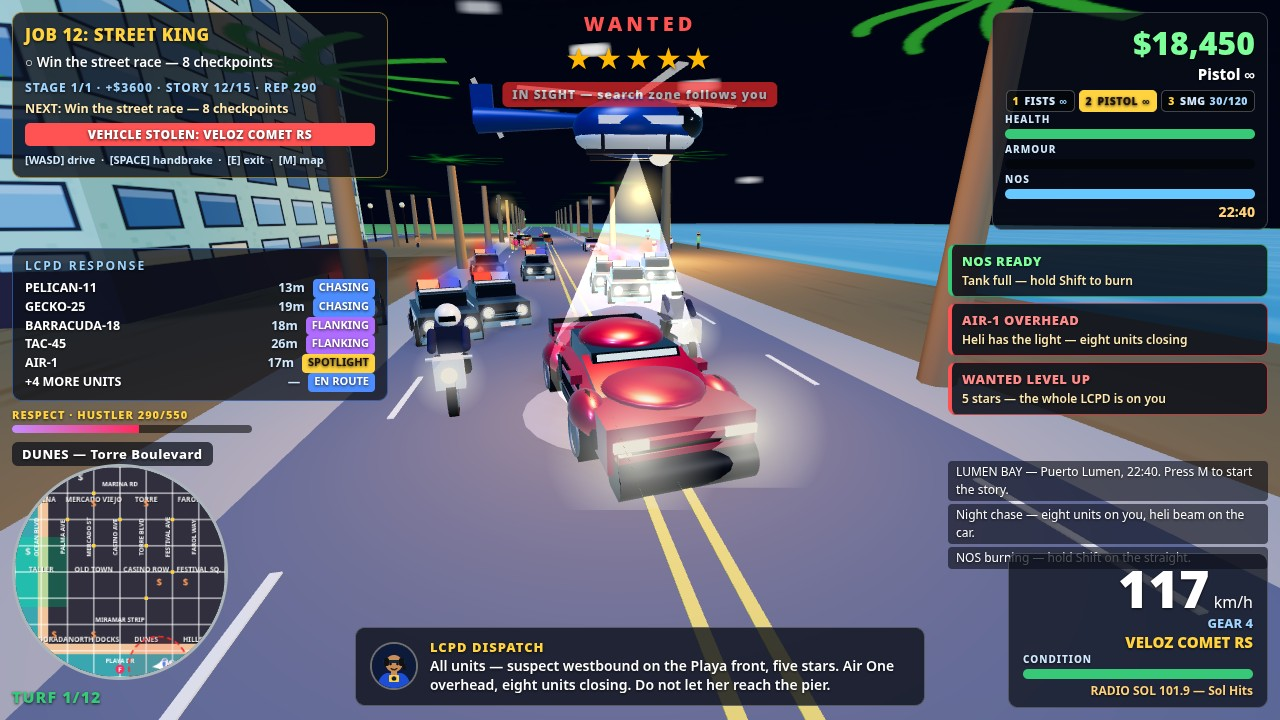
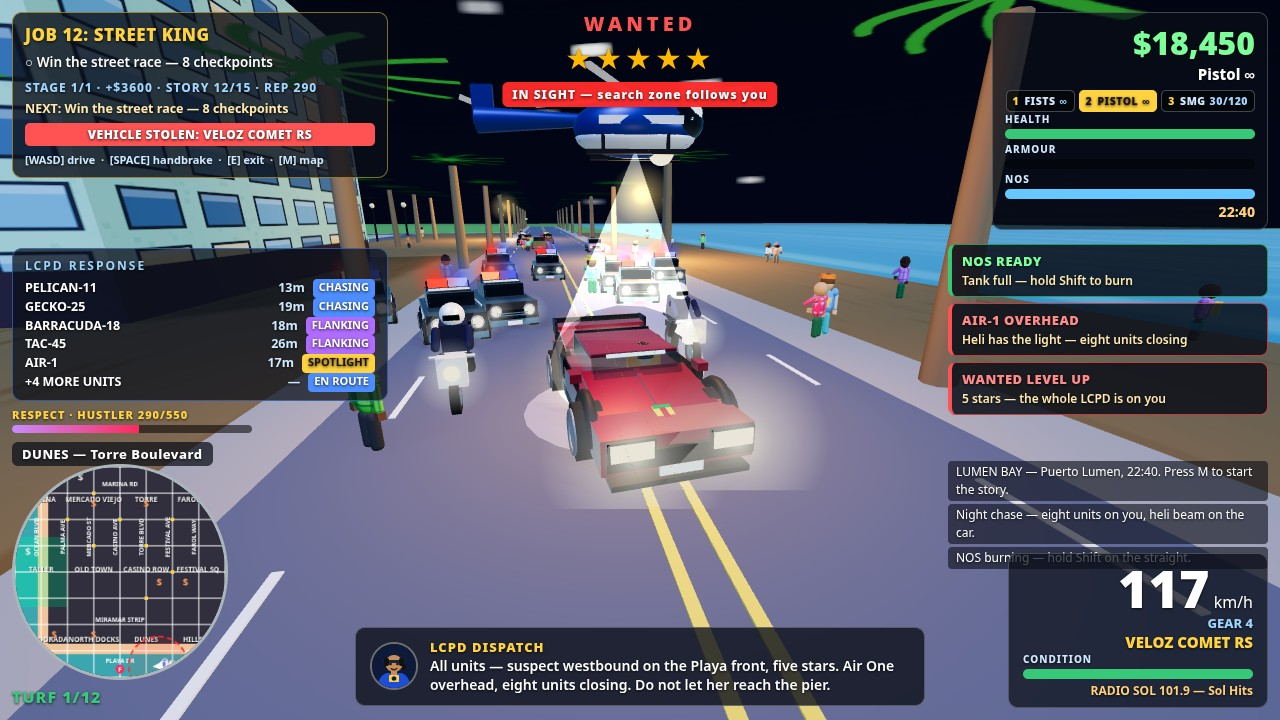
r12: Ferrari v2 (shield, big headlights, visible driver, sidewalk peds)

diff --git a/game/src/vehicles.js b/game/src/vehicles.js
@@ -108,61 +108,104 @@ export function buildCarMesh(type, opts) {
   group.add(body);
   let lightBar = null;
   if (type === 'comet') {
-    // The hero Comet RS — LOW SLEEK FERRARI-STYLE SPORTS CAR (Sand
-    // 2026-11-21 ~06:20 WIT: "ganti jd mobil sport kya ferarri"). NOT a
-    // classic Corolla sedan any more: a long low nose sloping down to a
-    // front splitter, sculpted raked hood, LOW raked cabin set back, wide
-    // haunches, big wheels, rear spoiler + diffuser, metallic hot-pink/red
-    // paint with highlights, slim LED headlights. Copied from the top-1
-    // madsrepo red sports car (low wedge, sloped hood, dark raked
-    // windshield, big silver wheels, wide stance) and the afaba99
-    // sports-car take the coordinator rated GOOD — pushed LOWER + WIDER +
-    // LONGER here (body 0.72 tall, 5.1 long, roof 1.36). Police + traffic
-    // stay classic boxy sedans (the else branch below); ONLY the hero
-    // changes. Same hot-pink paint (0xe8124a), same poster scale.
-    body.scale.set(0.98, 0.72, 1.16);
-    body.position.y = 0.62;
-    // Long low nose: a tapered wedge under the sloped hood.
-    const nose = new THREE.Mesh(new THREE.BoxGeometry(1.85, 0.34, 0.7), paint);
-    nose.position.set(0, 0.58, 2.3);
-    group.add(nose);
-    // SLOPED hood (top-1 geometry): a long low panel raked down toward
-    // the nose — the rake is what makes the front read as a sports car
-    // instead of a box. Rake 0.26 (was 0.22 in afaba99): the front edge
-    // drops to ~0.68, the Ferrari wedge line.
-    const hood = new THREE.Mesh(new THREE.BoxGeometry(1.75, 0.08, 2.0), paint);
-    hood.position.set(0, 0.94, 1.3);
-    hood.rotation.x = 0.26;
+    // The hero Comet RS — a FERRARI (Sand 2026-11-21 ~11:16 WIT:
+    // "Mobilnya jelek ganti mobil ferarri bro" — the car is ugly, make
+    // it a Ferrari). Rosso corsa red (0xd2001a in config.js), ONE clean
+    // low body slab, ONE long raked hood panel, a wide low dark grille
+    // + slim LEDs + splitter lip, and a LOW DARK-GLASS cabin with a
+    // THIN red roof rail. NO dome, NO hood bulge, NO haunch spheres,
+    // NO stacked nose boxes, NO cylinder bumper, NO pink flank bands —
+    // the previous take read as a stack of pink bubbles from the front
+    // 3/4 camera. Copied from the top-1 Karimbu car: long low wedge,
+    // dark-glass cabin dominating the top, one sloped hood surface,
+    // wide low grille, big dark wheels. Police + traffic stay classic
+    // boxy sedans (the else branch below); ONLY the hero changes.
+    // Same footprint (2.1 wide x 5.1 long, wheels z +/-1.45, x +/-1.0)
+    // and same poster scale, so the shot-1 staging is untouched.
+    // FERRARI v2 (Sand 2026-11-21 ~11:24 WIT, spec 6 + 7): the v1 take
+    // still read BOXY — flat red front face, flat slab hood, opaque
+    // dark-box cabin, no driver, no shield, slim-strip headlights.
+    // v2 adds: SEMI-TRANSPARENT windshield + glasshouse so the driver
+    // READS, a brighter driver face, the yellow/green shield on the
+    // hood, BIG rectangular headlights with dark frames, a subtle hood
+    // centre ridge, and a wider-reading grille mouth.
+    body.scale.set(1.0, 0.58, 1.16);
+    body.position.y = 0.52;
+    // ONE long raked hood panel — one continuous sloped surface from
+    // the windshield base to the nose tip. Front edge low at the nose
+    // (y ~0.64, z ~2.54), rear edge up at the windshield base
+    // (y ~0.92, z ~0.36). NO bulge on it. The subtle centre ridge +
+    // shield below are spec 6 (Sand's reference) — a sculpted line
+    // and an emblem, not a bulge.
+    // Rake 0.13 (not 0.20): the 0.20 rake put the hood's rear edge at
+    // y 1.07 — ABOVE the driver's head (1.04), so the solid hood panel
+    // hid the whole driver from the low front camera. At 0.13 the rear
+    // edge drops to 0.92 and the head + shoulders read through the
+    // upper windshield; the nose stays low (front edge 0.64).
+    const hood = new THREE.Mesh(new THREE.BoxGeometry(1.8, 0.06, 2.2), paint);
+    hood.position.set(0, 0.78, 1.45);
+    hood.rotation.x = 0.13;
     group.add(hood);
-    const noseWedge = new THREE.Mesh(new THREE.BoxGeometry(1.85, 0.3, 0.55), paint);
-    noseWedge.position.set(0, 0.52, 2.42);
-    noseWedge.rotation.x = 0.18;
-    group.add(noseWedge);
-    // ROUNDED nose bumper (smooth-body pass, Sand 10:39 — "3D jelas"):
-    // a smooth horizontal cylinder across the nose, not the old flat
-    // dark splitter box — the front camera catches a curved highlight
-    // across the whole nose instead of a hard box edge. Low (y 0.26)
-    // so the grille + headlights above it stay clear of its curve.
-    const noseBumper = new THREE.Mesh(new THREE.CylinderGeometry(0.3, 0.3, 1.9, 20),
-      new THREE.MeshStandardMaterial({ color: 0x14141a, roughness: 0.4, metalness: 0.6 }));
-    noseBumper.rotation.z = Math.PI / 2;
-    noseBumper.position.set(0, 0.26, 2.55);
-    group.add(noseBumper);
-    // SMOOTH hood bulge (same pass): a flattened sphere on the sloped
-    // hood — a curved highlight dome down the hood's centreline, so the
-    // hood reads sculpted, not a flat pink plank, from the front 3/4.
-    const hoodBulge = new THREE.Mesh(new THREE.SphereGeometry(1, 20, 14), paint);
-    hoodBulge.scale.set(0.8, 0.16, 1.0);
-    hoodBulge.position.set(0, 0.96, 1.25);
-    group.add(hoodBulge);
-    // Bright flank highlight: a thin lighter band along each side at
-    // mid-height. The old flank was one blank pink slab; the band + the
-    // dark side skirt below it give the side a waistline like the top-1 car.
-    const flankMat = new THREE.MeshStandardMaterial({ color: 0xff6b9a, metalness: 0.8, roughness: 0.25 });
+    // Hood centre ridge (spec 6d): ONE subtle thin low box along the
+    // centreline, same red paint — a sculpted line down the hood, not
+    // a bulge. Sits on the hood panel surface, raked with it.
+    const hoodRidge = new THREE.Mesh(new THREE.BoxGeometry(0.08, 0.04, 2.0), paint);
+    hoodRidge.position.set(0, 0.83, 1.45);
+    hoodRidge.rotation.x = 0.13;
+    group.add(hoodRidge);
+    // Ferrari shield on the hood (spec 6b): small yellow shield plate
+    // with a green top strip, lying on the hood panel about 2/3 toward
+    // the nose (z ~1.9), rotated to the hood rake. Basic materials so
+    // the yellow reads bright at night.
+    const shield = new THREE.Mesh(new THREE.BoxGeometry(0.26, 0.03, 0.30),
+      new THREE.MeshBasicMaterial({ color: 0xffd400 }));
+    shield.position.set(0, 0.77, 1.88);
+    shield.rotation.x = 0.13;
+    group.add(shield);
+    const shieldTop = new THREE.Mesh(new THREE.BoxGeometry(0.26, 0.04, 0.08),
+      new THREE.MeshBasicMaterial({ color: 0x009444 }));
+    shieldTop.position.set(0, 0.79, 1.78);
+    shieldTop.rotation.x = 0.13;
+    group.add(shieldTop);
+    // Front face: ONE wide low dark grille band (a WIDE LOW mouth, spec
+    // 6e) + BIG rectangular headlights with dark frames (spec 6c) +
+    // a subtle dark splitter lip UNDER the grille (a lip, NOT a tube).
+    const grille = new THREE.Mesh(new THREE.BoxGeometry(2.0, 0.24, 0.08),
+      new THREE.MeshStandardMaterial({ color: 0x0a0a0c, roughness: 0.4, metalness: 0.6 }));
+    grille.position.set(0, 0.50, 2.62);
+    group.add(grille);
+    const splitter = new THREE.Mesh(new THREE.BoxGeometry(1.9, 0.08, 0.35),
+      new THREE.MeshStandardMaterial({ color: 0x0a0a0c, roughness: 0.4, metalness: 0.6 }));
+    splitter.position.set(0, 0.16, 2.5);
+    group.add(splitter);
+    // BIG rectangular headlights (spec 6c): a dark surround frame with a
+    // bright emissive lens proud of it — prominent units like the
+    // reference, NOT the slim strips that read as a white plate + two
+    // glows. Frames sit proud of the grille band so they read as units
+    // mounted on the nose. Glow sprites kept, slightly bigger.
+    const headFrameMat = new THREE.MeshStandardMaterial({ color: 0x0a0a0c, roughness: 0.4, metalness: 0.6 });
+    for (const x of [-0.68, 0.68]) {
+      const frame = new THREE.Mesh(new THREE.BoxGeometry(0.62, 0.28, 0.06), headFrameMat);
+      frame.position.set(x, 0.64, 2.64);
+      group.add(frame);
+      const lens = new THREE.Mesh(new THREE.BoxGeometry(0.55, 0.22, 0.05),
+        new THREE.MeshBasicMaterial({ color: 0xfff6c8 }));
+      lens.position.set(x, 0.64, 2.68);
+      group.add(lens);
+      // Headlight glow sprites: the front-three-quarter chase camera lives
+      // on the headlights — the bare lens boxes read flat, the halos read
+      // as lights ON. Same treatment the cruisers already get.
+      const glow = new THREE.Sprite(new THREE.SpriteMaterial({
+        map: sunGlowTexture(), color: 0xfff6c8, transparent: true, opacity: 0.9, depthWrite: false,
+      }));
+      glow.position.set(x, 0.64, 2.80);
+      glow.scale.set(2.4, 2.4, 1);
+      group.add(glow);
+    }
+    // Dark side skirts + side air-intake scoops (kept from the sports
+    // take): the skirt + scoop give the flank a waistline like the
+    // top-1 car. The lighter-pink flank bands are GONE (lumpiness).
     for (const s of [-1, 1]) {
-      const band = new THREE.Mesh(new THREE.BoxGeometry(0.04, 0.1, 3.4), flankMat);
-      band.position.set(s * 1.04, 0.78, 0);
-      group.add(band);
       const skirtMat = new THREE.MeshStandardMaterial({ color: 0x14141a, roughness: 0.4, metalness: 0.6 });
       const skirt = new THREE.Mesh(new THREE.BoxGeometry(0.06, 0.16, 3.4), skirtMat);
       skirt.position.set(s * 1.02, 0.3, 0);
@@ -173,37 +216,7 @@ export function buildCarMesh(type, opts) {
       scoop.position.set(s * 1.04, 0.72, -0.9);
       group.add(scoop);
     }
-    // SMOOTH fender haunches (same pass): flattened spheres over the four
-    // wheels, bulging out of the flanks in the same paint — the haunch
-    // curve is what makes a sports car's flank read sculpted instead of
-    // slab-sided, and the curve catches the lamp light from the front.
-    for (const [x, z] of [[-1.02, 1.45], [1.02, 1.45], [-1.02, -1.45], [1.02, -1.45]]) {
-      const haunch = new THREE.Mesh(new THREE.SphereGeometry(1, 16, 12), paint);
-      haunch.scale.set(0.28, 0.3, 0.55);
-      haunch.position.set(x, 0.72, z);
-      group.add(haunch);
-    }
-    // Low dark grille + slim LED headlights on the sloped nose.
-    const grille = new THREE.Mesh(new THREE.BoxGeometry(1.5, 0.22, 0.08),
-      new THREE.MeshStandardMaterial({ color: 0x0a0a0c, roughness: 0.4, metalness: 0.6 }));
-    grille.position.set(0, 0.55, 2.66);
-    group.add(grille);
     const chromeMat = new THREE.MeshStandardMaterial({ color: 0xd8dce2, roughness: 0.15, metalness: 1.0 });
-    for (const x of [-0.75, 0.75]) {
-      const led = new THREE.Mesh(new THREE.BoxGeometry(0.45, 0.12, 0.06),
-        new THREE.MeshBasicMaterial({ color: 0xfff6c8 }));
-      led.position.set(x, 0.72, 2.66);
-      group.add(led);
-      // Headlight glow sprites: the front-three-quarter chase camera lives
-      // on the headlights — the bare LED boxes read flat, the halos read
-      // as lights ON. Same treatment the cruisers already get.
-      const glow = new THREE.Sprite(new THREE.SpriteMaterial({
-        map: sunGlowTexture(), color: 0xfff6c8, transparent: true, opacity: 0.9, depthWrite: false,
-      }));
-      glow.position.set(x, 0.72, 2.78);
-      glow.scale.set(2.2, 2.2, 1);
-      group.add(glow);
-    }
     // Rear: dark panel + twin bright clusters + glow halos + dark
     // diffuser + twin pipes. 3D-BOULEVARD POLISH (2026-11-21): the old
     // single red strip on pink read as a flat red bar from the chase
@@ -235,34 +248,49 @@ export function buildCarMesh(type, opts) {
       pipe.position.set(x, 0.4, -2.6);
       group.add(pipe);
     }
-    // Cabin (top-1 geometry, pushed LOWER): a PAINT-COLOURED curved roof
-    // over a narrower glasshouse — the old single dark box was the "Lego
-    // cabin", and the flat roof slab that replaced it still read as a
-    // pink shelf from the front. The DOMED roof (a flattened sphere in
-    // the same paint) gives the cabin a smooth curved roofline; slanted
-    // windshield up front, slanted rear glass, dark side glass with a
-    // bright glare band, so the cabin reads as glass + curved roof,
-    // not a black brick. Roof dome top 1.64 — the low Ferrari roofline.
+    // Cabin — LOW DARK GLASS + THIN RED ROOF RAIL (the big fix). The
+    // old pink roof DOME was the single worst read (a big pink bubble
+    // on top of the car). Karimbu's car has NO dome: its cabin is
+    // mostly DARK GLASS with a thin paint roof edge. One low dark-glass
+    // box, a raked windshield up front, raked rear glass, and ONE THIN
+    // red box across the glasshouse top — an edge, not a dome.
+    // Roofline top y ~1.24 — the LOW Ferrari roofline.
+    // SEMI-TRANSPARENT glass (spec 6a, v2, comet only): the opaque dark
+    // glass hid the driver completely — at opacity 0.40 the driver
+    // behind it READS from the front 3/4 camera. LOW metalness + low
+    // env: the first v2 take kept metalness 0.9, so the "glass" mirrored
+    // the environment like a dark mirror instead of a tint — the driver
+    // stayed invisible even at 0.40 opacity. Rear glass stays opaque
+    // so the cabin keeps a dark back wall behind the driver.
     const glassMat = new THREE.MeshPhysicalMaterial({ color: 0x0a0e14, metalness: 0.9, roughness: 0.08, clearcoat: 1 });
-    const roofDome = new THREE.Mesh(new THREE.SphereGeometry(1, 20, 14), paint);
-    roofDome.scale.set(0.78, 0.32, 0.78);
-    roofDome.position.set(0, 1.32, -0.35);
-    group.add(roofDome);
-    const glasshouse = new THREE.Mesh(new THREE.BoxGeometry(1.5, 0.42, 1.8), glassMat);
-    glasshouse.position.set(0, 1.1, -0.35);
+    const cometGlassMat = new THREE.MeshPhysicalMaterial({
+      color: 0x0a0e14, metalness: 0.1, roughness: 0.05, clearcoat: 1,
+      envMapIntensity: 0.4, transparent: true, opacity: 0.40, depthWrite: false,
+    });
+    const windshieldMat = new THREE.MeshPhysicalMaterial({
+      color: 0x0a0e14, metalness: 0.0, roughness: 0.05, clearcoat: 1,
+      envMapIntensity: 0.2, transparent: true, opacity: 0.35, depthWrite: false,
+    });
+    const glasshouse = new THREE.Mesh(new THREE.BoxGeometry(1.5, 0.38, 1.7), cometGlassMat);
+    glasshouse.position.set(0, 1.0, -0.35);
     group.add(glasshouse);
-    const windshield = new THREE.Mesh(new THREE.BoxGeometry(1.5, 0.55, 0.08), glassMat);
-    windshield.position.set(0, 1.02, 0.68);
-    windshield.rotation.x = -0.6;
+    const windshield = new THREE.Mesh(new THREE.BoxGeometry(1.5, 0.6, 0.06), windshieldMat);
+    windshield.position.set(0, 1.0, 0.62);
+    windshield.rotation.x = -0.55;
     group.add(windshield);
-    const rearGlass = new THREE.Mesh(new THREE.BoxGeometry(1.5, 0.5, 0.08), glassMat);
-    rearGlass.position.set(0, 1.04, -1.32);
+    const rearGlass = new THREE.Mesh(new THREE.BoxGeometry(1.5, 0.55, 0.06), glassMat);
+    rearGlass.position.set(0, 1.02, -1.28);
     rearGlass.rotation.x = 0.5;
     group.add(rearGlass);
-    const glare = new THREE.Mesh(new THREE.BoxGeometry(1.35, 0.1, 0.06),
+    const roofRail = new THREE.Mesh(new THREE.BoxGeometry(1.5, 0.05, 1.55), paint);
+    roofRail.position.set(0, 1.21, -0.35);
+    group.add(roofRail);
+    // Glare strip: a thin light streak at the TOP edge of the windshield
+    // only — the old mid-windshield strip sat across the driver's face.
+    const glare = new THREE.Mesh(new THREE.BoxGeometry(1.0, 0.06, 0.06),
       new THREE.MeshBasicMaterial({ color: 0xbfe8ff }));
-    glare.position.set(0, 1.24, 0.62);
-    glare.rotation.x = -0.6;
+    glare.position.set(0, 1.22, 0.52);
+    glare.rotation.x = -0.55;
     group.add(glare);
     // Rear decklid (3D-boulevard polish): a RAKED deck panel over the
     // rear deck between the rear glass and the tail — the old deck was
@@ -308,20 +336,35 @@ export function buildCarMesh(type, opts) {
     const lip = new THREE.Mesh(new THREE.BoxGeometry(1.95, 0.14, 0.04), bumpMat);
     lip.position.set(0, 1.19, -2.56);
     group.add(lip);
-    // Visible driver: dark hair + orange jacket, hands on the wheel.
-    // Lowered into the LOW cabin (roof 1.36): torso y 0.9, head 1.12 —
-    // the whole driver stays inside the glasshouse, never a blob on the roof.
-    const driverMat = new THREE.MeshStandardMaterial({ color: 0xff7a1a, roughness: 0.9 });
+    // Visible driver (spec 6a, v2): dark hair + orange jacket, hands on
+    // the wheel — now BRIGHT and FORWARD so the face + torso READ
+    // through the semi-transparent windshield at night. Lighter warm
+    // face (was 0xd9a066), moved 0.15 forward toward the glass.
+    // LOWERED into the LOW glass cabin (roof rail 1.21): torso y 0.87,
+    // head 1.04 — the head top (1.26) sits just at the roof rail, never
+    // a blob on the roof. Head raised 1.02 → 1.04 so the face clears
+    // the hood's rear edge (0.92) and reads through the upper windshield.
+    // DRIVER'S SEAT IS THE CAMERA SIDE (x +0.30): the car faces west,
+    // so its left (driver's) side is south — the flank the front 3/4
+    // camera sees. The first v2 takes sat the driver at x -0.35, the
+    // FAR (north) half of the windshield, foreshortened + behind two
+    // glass layers = invisible. On the near half the head + torso read.
+    // Torso glows (emissive orange) so the jacket reads through the
+    // tinted glass at night; the face is unlit bright warm skin so it
+    // reads like a lit face through the windshield (spec 6a) — the
+    // first v2 take at opacity 0.55 + standard materials hid the
+    // driver completely behind two layers of dark glass.
+    const driverMat = new THREE.MeshStandardMaterial({ color: 0xff7a1a, roughness: 0.9, emissive: 0xff5a00, emissiveIntensity: 1.4 });
     const driver = new THREE.Mesh(new THREE.BoxGeometry(0.55, 0.5, 0.3), driverMat);
-    driver.position.set(-0.35, 0.9, -0.2);
+    driver.position.set(0.30, 0.87, -0.05);
     group.add(driver);
     const dHead = new THREE.Mesh(new THREE.SphereGeometry(0.22, 10, 10),
-      new THREE.MeshStandardMaterial({ color: 0xd9a066, roughness: 0.8 }));
-    dHead.position.set(-0.35, 1.12, -0.2);
+      new THREE.MeshBasicMaterial({ color: 0xffd9a0 }));
+    dHead.position.set(0.30, 1.04, -0.05);
     group.add(dHead);
-    const dHair = new THREE.Mesh(new THREE.SphereGeometry(0.24, 10, 10, 0, Math.PI * 2, 0, Math.PI * 0.55),
+    const dHair = new THREE.Mesh(new THREE.SphereGeometry(0.22, 10, 10, 0, Math.PI * 2, 0, Math.PI * 0.55),
       new THREE.MeshStandardMaterial({ color: 0x1a1210, roughness: 0.9 }));
-    dHair.position.set(-0.35, 1.14, -0.2);
+    dHair.position.set(0.30, 1.04, -0.05);
     group.add(dHair);
   } else {
     // Generic cars (sedan / taxi / pickup / police): the SAME classic
@@ -486,7 +529,11 @@ export function buildCarMesh(type, opts) {
   const plates = [];
   for (const z of [2.5, -2.5]) {
     const p = new THREE.Mesh(new THREE.BoxGeometry(0.6, 0.18, 0.04), plateMat);
-    p.position.set(0, 0.42, z);
+    // Ferrari only: the front plate at (0, 0.42, 2.5) would sit behind
+    // the wide grille band — move it below the grille, above the
+    // splitter lip.
+    if (type === 'comet' && z > 0) p.position.set(0, 0.30, 2.60);
+    else p.position.set(0, 0.42, z);
     group.add(p);
     plates.push(p);
   }

diff --git a/game/src/shots.js b/game/src/shots.js
@@ -106,6 +106,27 @@ export function stageShot1(G) {
   G.clearPedsNear(90, 215, 15); // clear the hero's foreground
   G.spawnPedsNear(140, 206, 8); // pedestrians on the north sidewalk behind the hero
   G.spawnPedsNear(170, 228, 5); // beachgoers on the sand behind the hero, south side
+  // PEDESTRIANS ON THE RIGHT SIDEWALK (Sand 2026-11-21 ~11:24 WIT, spec
+  // 7): 5 people WALKING on the beach-side sidewalk just east of the
+  // hero, mid-ground so they READ in the frame — the far peds at x
+  // 140–170 are too small to read as pedestrians. z 225 is the sidewalk
+  // line; spawned AFTER clearPedsNear above, so this group survives.
+  // x 102 (not 108): the first take scattered two peds behind the
+  // right-side HUD panels — closer to the hero keeps the whole group
+  // in the open frame, left of the panels. TWO groups (8 total):
+  // the take-1 config (108,225,5) alone netted 2 readable sidewalk
+  // peds; the westward moves (102/100/98) only scattered a green ped
+  // onto the road by the hero, so the base group REVERTS to 108,225
+  // and a second group at the same x on the sand side (z 228) adds
+  // 1–2 more — peds wander during the slow SwiftShader settle, so 8
+  // spawned nets 3–5 on the sidewalk in frame.
+  G.spawnPedsNear(108, 225, 5);
+  G.spawnPedsNear(108, 228, 3);
+  // Third pair (same x, sand side): the rng is sequential, so the 8
+  // peds above keep their take-5 places and these 2 are purely extra —
+  // take 5 netted 2 clear sidewalk peds + 1 tiny far one, one short of
+  // the 3–5 target.
+  G.spawnPedsNear(104, 228, 2);
   // Warm bounce light over the hero so the pink-red paint + chrome glow
   // under the lamps. 60, not 100: at bright night the old 100 + the beam
   // pool washed the pink to pale white — the paint still glows at 60.

diff --git a/game/src/config.js b/game/src/config.js
@@ -202,7 +202,10 @@ export const UPGRADES = {
   nos: { name: 'NOS Tank', max: 3, prices: [700, 1300, 2400], capacity: [60, 90, 120, 160] },
 };
 export const CARS = {
-  comet: { name: 'Veloz Comet RS', colour: 0xe8124a, top: 34, accel: 16 },
+  // Ferrari rebuild (Sand 2026-11-21 ~11:16 WIT: "Mobilnya jelek ganti
+  // mobil ferarri bro"): the hero Comet RS is now ROSSO CORSA RED
+  // 0xd2001a (was hot pink 0xe8124a — read as a toy).
+  comet: { name: 'Veloz Comet RS', colour: 0xd2001a, top: 34, accel: 16 },
   sedan: { name: 'Solmar Sedan', colour: 0x3fa7ff, top: 26, accel: 12 },
   pickup: { name: 'Dune Pickup', colour: 0x8a6f4d, top: 28, accel: 13 },
   taxi: { name: 'Lumen Taxi', colour: 0xffd23f, top: 26, accel: 12 },
